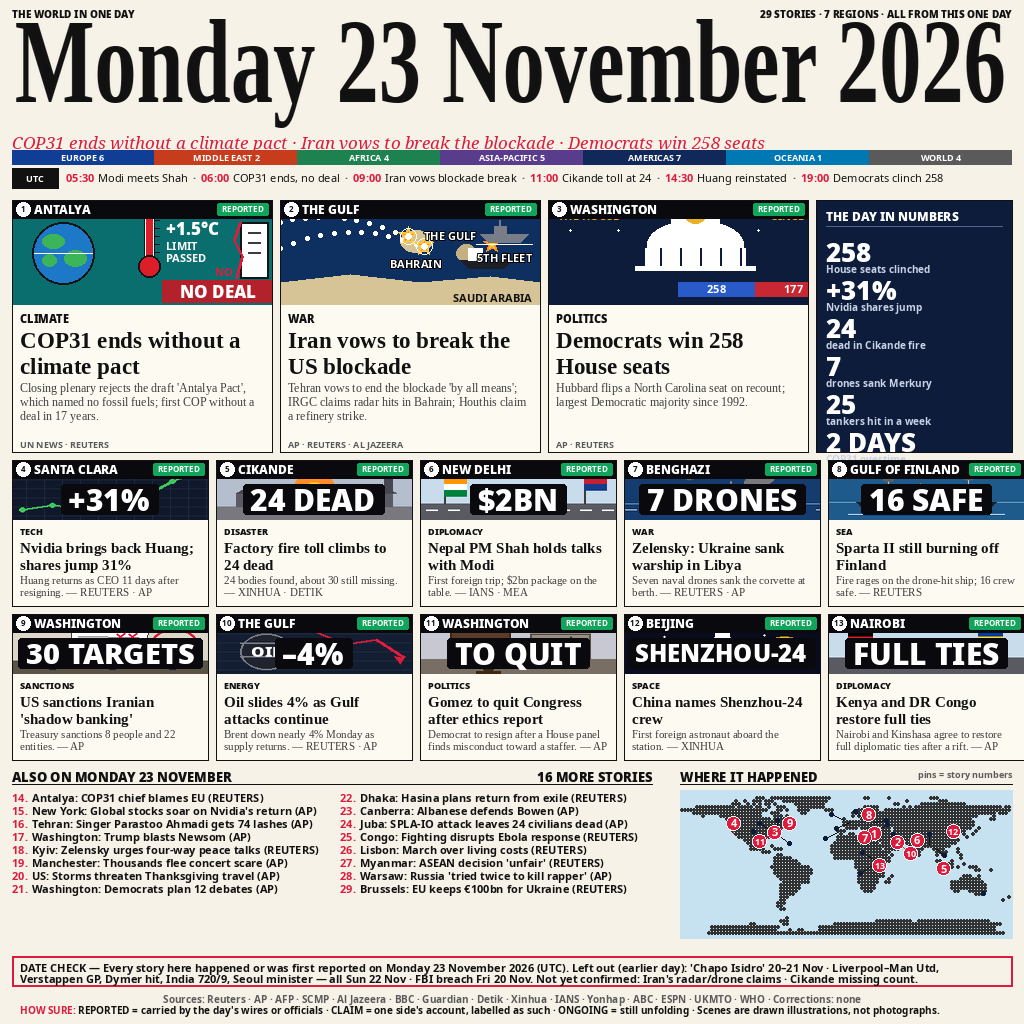
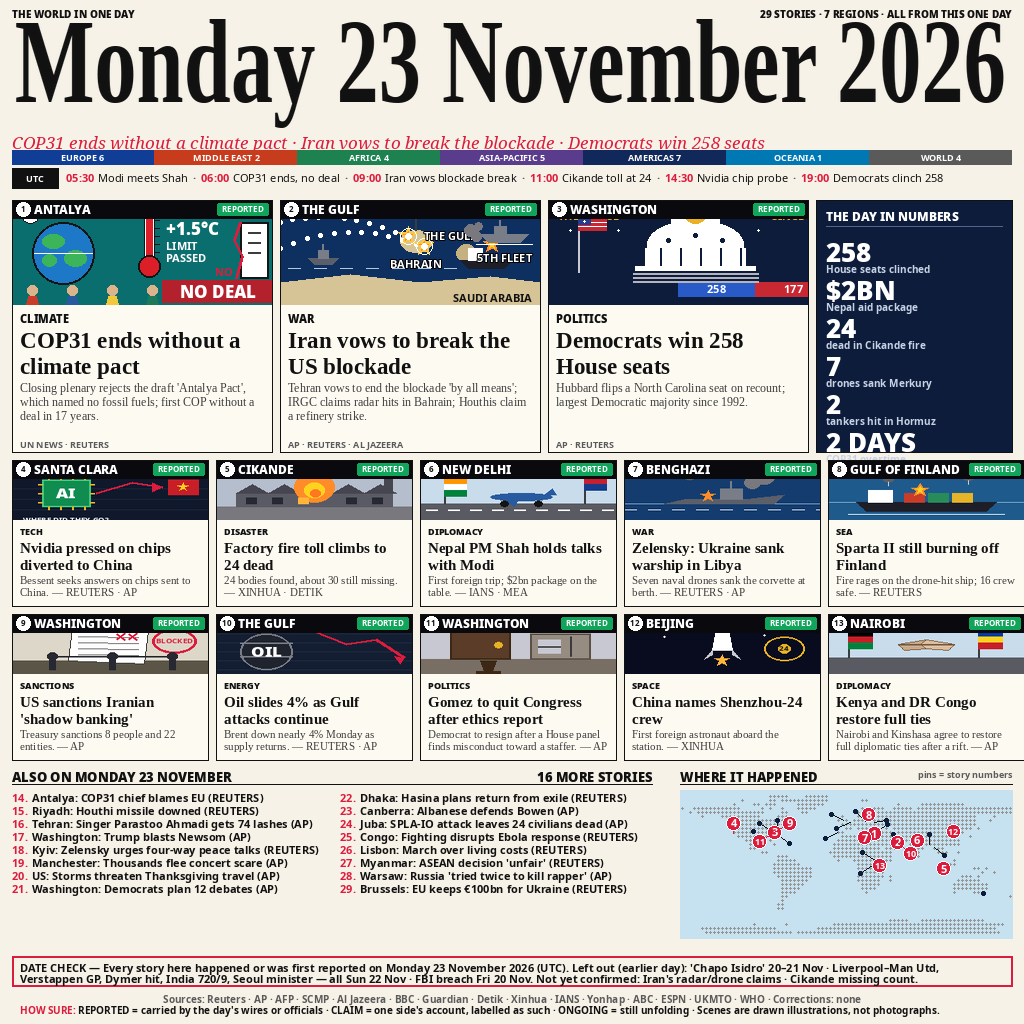
news-image-20261123 v3.1: exact-match to sum-22 top-1 — mini illustrations on smalls, light map, detailed heroes, Huang fix

diff --git a/draw.py b/draw.py
@@ -1,13 +1,15 @@
 #!/usr/bin/env python3
-"""Front page for Monday 23 November 2026 — v3.
+"""Front page for Monday 23 November 2026 — v3.1.
 
-Rebuilt on the sum-22 top-1 (bagarte, final #1) layout, exactly:
-oversized serif date masthead with a "THE WORLD IN ONE DAY" strip,
-red italic kicker, coloured region bar, single-line UTC timeline,
-three numbered hero stories beside a dark-navy THE DAY IN NUMBERS
-box (six big figures), ten small stories in two rows of five with
-big-number anchors (pandya's device), an ALSO list and a dotted
-world map, a red DATE CHECK box, and a HOW SURE footer.
+Exact-match revision of v3 on the sum-22 top-1 (bagarte, final #1)
+layout: oversized serif date masthead with a "THE WORLD IN ONE
+DAY" strip, red italic kicker, coloured region bar, single-line
+UTC timeline, three numbered hero stories (each a detailed drawn
+scene) beside a dark-navy THE DAY IN NUMBERS box (six big
+figures), ten small stories in two rows of five, each led by a
+mini scene illustration (bagarte — no badges), an ALSO list and a
+light dotted world map, a red DATE CHECK box, and a HOW SURE
+footer.
 
 Renders entry.png (1024x1024, byte-stable) from world.geo.json.
 Usage: python3 draw.py
@@ -149,16 +151,16 @@ FRONT = [
      "Iran vows to break the US blockade",
      "Tehran vows to end the blockade 'by all means'; IRGC claims "
      "radar hits in Bahrain; Houthis claim a refinery strike.",
-     "BREAK THE BLOCKADE", "25 TANKERS HIT", "gulfwar", "REPORTED"),
+     "BREAK THE BLOCKADE", "2 TANKERS HIT", "gulfwar", "REPORTED"),
     (3, "WASHINGTON", "POLITICS", "AP · REUTERS", "REPORTED",
      "Democrats win 258 House seats",
      "Hubbard flips a North Carolina seat on recount; largest "
      "Democratic majority since 1992.",
      "258 SEATS", "BIGGEST SINCE 1992", "house258", "REPORTED"),
     (4, "SANTA CLARA", "TECH", "REUTERS · AP", "REPORTED",
-     "Nvidia brings back Huang; shares jump 31%",
-     "Huang returns as CEO 11 days after resigning.",
-     "+31%", "HUANG RETURNS", "shares", "REPORTED"),
+     "Nvidia pressed on chips diverted to China",
+     "Bessent seeks answers on chips sent to China.",
+     "CHIP PROBE", "CHINA DIVERSION", "chip", "REPORTED"),
     (5, "CIKANDE", "DISASTER", "XINHUA · DETIK", "REPORTED",
      "Factory fire toll climbs to 24 dead",
      "24 bodies found, about 30 still missing.",
@@ -203,7 +205,7 @@ FRONT = [
 # 310px column (288px of text) at 11px bold. All 16 are Monday stories.
 ALSO = [
     (14, "Antalya", "COP31 chief blames EU", "REUTERS"),
-    (15, "New York", "Global stocks soar on Nvidia's return", "AP"),
+    (15, "Riyadh", "Houthi missile downed", "REUTERS"),
     (16, "Tehran", "Singer Parastoo Ahmadi gets 74 lashes", "AP"),
     (17, "Washington", "Trump blasts Newsom", "AP"),
     (18, "Kyiv", "Zelensky urges four-way peace talks", "REUTERS"),
@@ -223,10 +225,10 @@ ALSO = [
 # Six numbers for the dark-navy box — one big figure per top story.
 STATS = [
     ("258", "House seats clinched"),
-    ("+31%", "Nvidia shares jump"),
+    ("$2BN", "Nepal aid package"),
     ("24", "dead in Cikande fire"),
     ("7", "drones sank Merkury"),
-    ("25", "tankers hit in a week"),
+    ("2", "tankers hit in Hormuz"),
     ("2 DAYS", "COP31 overtime"),
 ]
 
@@ -377,6 +379,16 @@ def art(key, w, h):
         txt(d, (212, 64), "NO", TY.amidsm, SCARLET, anchor="ma")
         box(d, 150, 80, 262, 102, WINE)
         txt(d, (206, 91), "NO DEAL", TY.amid, "white", anchor="mm")
+        # wall clock and delegates along the foot: a scene with
+        # people, not just icons.
+        disc(d, 18, 14, 9, "white", outline=(20, 20, 20), width=1)
+        seg(d, [(18, 14), (18, 7)], (20, 20, 20), 1)
+        seg(d, [(18, 14), (23, 16)], (20, 20, 20), 1)
+        for fx, shirt in ((14, (200, 60, 40)), (54, (40, 90, 160)),
+                          (94, (240, 200, 60)), (134, (30, 120, 90))):
+            disc(d, fx + 6, 90, 5, (220, 180, 140))
+            poly(d, [(fx, 105), (fx + 12, 105), (fx + 10, 96),
+                     (fx + 2, 96)], shirt)
     elif key == "gulfwar":
         # Lead 2: the Gulf at war, as a map. Iran coast on top,
         # Arabian coast below, Bahrain with two base bursts, dashed
@@ -419,6 +431,17 @@ def art(key, w, h):
         seg(d, [(196, 44), (252, 44)], "white")
         txt(d, (224, 50), "5TH FLEET", TY.amidsm, "white", anchor="ma",
             stroke=1, stroke_fill=(0, 0, 0))
+        # sea texture, a second vessel, a radar mast on Bahrain,
+        # and smoke over the burning tanker.
+        for wx in range(8, 168, 26):
+            seg(d, [(wx, 68), (wx + 12, 68)], (180, 200, 220), 1)
+        poly(d, [(28, 58), (58, 58), (52, 64), (34, 64)], (90, 95, 105))
+        box(d, 38, 50, 48, 58, (120, 125, 135))
+        seg(d, [(43, 50), (43, 44)], (120, 125, 135), 2)
+        seg(d, [(136, 30), (136, 18)], (60, 60, 60), 2)
+        seg(d, [(130, 18), (142, 14)], (60, 60, 60), 2)
+        for sx, sy, sr in ((196, 36, 5), (190, 30, 6), (198, 26, 4)):
+            disc(d, sx, sy, sr, (120, 120, 126))
     elif key == "house258":
         # Lead 3: the US House flips. Navy hall, white Capitol dome
         # with columns and a gold cupola, seat bar bottom-right:
@@ -440,6 +463,18 @@ def art(key, w, h):
         txt(d, (245, 89), "177", TY.amidsm, "white", anchor="mm")
         txt(d, (10, 8), "THE HOUSE", TY.amidsm, GILT)
         txt(d, (284, 8), "SINCE 1992", TY.amidsm, GILT, anchor="ra")
+        # a flag on the left, steps under the dome, and windows on
+        # the dome: a fuller scene.
+        seg(d, [(30, 18), (30, 72)], (200, 200, 210), 2)
+        box(d, 30, 18, 58, 30, (200, 40, 50))
+        for sy in (22, 26):
+            seg(d, [(30, sy), (58, sy)], "white", 1)
+        box(d, 30, 18, 42, 24, (40, 60, 140))
+        disc(d, 36, 21, 1, "white")
+        for sy in (73, 77, 81):
+            seg(d, [(85, sy), (210, sy)], (180, 180, 190), 2)
+        for wx, wy in ((120, 40), (147, 35), (174, 40)):
+            disc(d, wx, wy, 2, MIDNIGHT)
     elif key == "shipfire":
         # Sparta II ablaze off Finland: grey sea, dark cargo ship,
         # container stack, white bridge, deck fire, two drones.
@@ -510,21 +545,27 @@ def art(key, w, h):
         poly(d, [(84, 52), (94, 62), (98, 52)], (40, 90, 160))
         for wx in (84, 118):
             disc(d, wx, 58, 4, (20, 20, 20))
-    elif key == "shares":
-        # Nvidia shares jump on Huang's return: dark board, a steep
-        # rising chart line, green arrow, the gain as the picture.
+    elif key == "chip":
+        # Nvidia pressed on chips diverted to China: dark board, big
+        # green AI chip with gold pins, red arrow to a red flag.
         box(d, 0, 0, w, h, (16, 24, 44))
-        for gy in range(14, h, 12):
-            seg(d, [(0, gy), (w, gy)], (30, 40, 60))
-        for gx in range(14, w, 18):
-            seg(d, [(gx, 0), (gx, h)], (30, 40, 60))
-        pts = [(10, 66), (40, 60), (70, 64), (100, 46), (130, 50),
-               (160, 28), (186, 16)]
-        for i in range(len(pts) - 1):
-            seg(d, [pts[i], pts[i + 1]], (60, 200, 90), 3)
-        for px, py in pts:
-            disc(d, px, py, 3, (60, 200, 90))
-        poly(d, [(186, 16), (176, 14), (176, 22)], (60, 200, 90))
+        for ty in range(24, h, 14):
+            seg(d, [(0, ty), (w, ty)], (30, 40, 60))
+        box(d, 30, 26, 78, 62, (16, 140, 80))
+        d.rectangle((30, 26, 78, 62), outline=(60, 200, 120), width=2)
+        for px in (36, 48, 60, 72):
+            seg(d, [(px, 22), (px, 26)], GILT, 2)
+            seg(d, [(px, 62), (px, 66)], GILT, 2)
+        for py in (32, 44, 56):
+            seg(d, [(26, py), (30, py)], GILT, 2)
+            seg(d, [(78, py), (82, py)], GILT, 2)
+        txt(d, (54, 44), "AI", TY.amid, "white", anchor="mm")
+        seg(d, [(84, 44), (120, 30), (150, 36)], SCARLET, 3)
+        poly(d, [(150, 36), (140, 30), (140, 42)], SCARLET)
+        box(d, 156, 26, 186, 46, (200, 30, 40))
+        burst(d, 171, 36, 6, 2, (255, 210, 31))
+        txt(d, (54, 74), "WHERE DID THEY GO?", TY.slabssm, "white",
+            anchor="ma")
     elif key == "sanctions":
         # US sanctions Iranian shadow banking: a ledger page, a red
         # stamp, a chain of blocked accounts.
@@ -664,11 +705,11 @@ def hero_card(img, d, story, x, y, w):
 
 
 def small_card(img, d, story, x, y):
-    """A small card, 146 tall (bagarte + pandya): 60px art with a
-    number+place bar, a status pill, and a big-number badge (the
-    story's big label, white on black, centred in the art), a topic
-    line, a 2-line 15px serif headline and a 2-line 11px serif deck
-    with its source, inside a 1px ink box."""
+    """A small card, 146 tall (bagarte): 60px mini scene illustration
+    with a number+place bar and a status pill, a topic line, a 2-line
+    15px serif headline and a 2-line 11px serif deck with its source,
+    inside a 1px ink box. No badge: the scene shows fully, as in
+    bagarte's smalls."""
     num, place, topic, src, _st, head, deck, big, small, key, vtag = story
     w = SW
     box(d, x, y, x + w, y + SH, PANEL)
@@ -676,17 +717,6 @@ def small_card(img, d, story, x, y):
     img.paste(pic, (x, y))
     d2 = ImageDraw.Draw(img)
     topbar(d2, x, y, w, num, place, vtag)
-    # big-number badge, centred in the art below the top bar
-    fb = TY.bignum
-    while d.textlength(big, font=fb) > w - 24 and fb.size > 14:
-        fb = ImageFont.truetype(
-            os.path.join(NOTO, "NotoSans-Black.ttf"), fb.size - 1)
-    bw = int(d.textlength(big, font=fb)) + 16
-    bx0 = x + (w - bw) // 2
-    by0 = y + 24
-    d2.rounded_rectangle((bx0, by0, bx0 + bw, by0 + 30), radius=3,
-                         fill=(10, 10, 14))
-    txt(d2, (bx0 + bw // 2, by0 + 15), big, fb, "white", anchor="mm")
     ty = y + SA + 5
     txt(d, (x + 8, ty), topic, TY.topicsm, BLACK)
     hl = wrap(d, head, TY.shead, w - 16, 2)
@@ -763,14 +793,15 @@ def draw_map(d, x0, y0, w, h):
         return y0 + (90.0 - lat) / 180.0 * h
 
     box(d, x0, y0, x0 + w, y0 + h, SEA)
-    # dotted land: 3px grid, 1.5px dots where inside a land polygon
-    step = 3
+    # dotted land: sparse light-grey dots where inside a land
+    # polygon (bagarte: airy, continents readable but light).
+    step = 4
     for gy in range(2, h, step):
         lat = 90.0 - (gy / h) * 180.0
         for gx in range(2, w, step):
             lon = (gx / w) * 360.0 - 180.0
             if _inside(lon, lat, polys):
-                disc(d, x0 + gx, y0 + gy, 1.5, (50, 50, 50))
+                disc(d, x0 + gx, y0 + gy, 1.0, (150, 150, 150))
     for num, (lon, lat) in DOTS.items():
         tx, ty = px(lon), py(lat)
         ox, oy = DOT_OFF.get(num, (0, 0))
@@ -829,7 +860,7 @@ def build():
                 ("06:00", "COP31 ends, no deal"),
                 ("09:00", "Iran vows blockade break"),
                 ("11:00", "Cikande toll at 24"),
-                ("14:30", "Huang reinstated"),
+                ("14:30", "Nvidia chip probe"),
                 ("19:00", "Democrats clinch 258")]
     tx = 66
     for i, (tt, ev) in enumerate(timeline):
